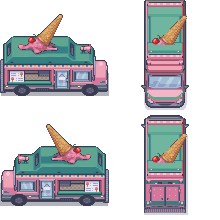
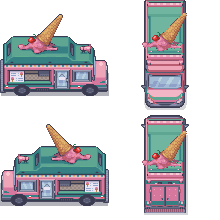
SCREAM-117: the whole cone and scoop on the truck's roof when it faces up or down; PO's reasons for decisions 020 and 022
Claude-Session: https://claude.ai/code/session_0117hxJ6iHj4m6Kg7agVMVwY

Changed region(s): [[0.6273, 0.5727, 0.8455, 0.7909], [0.6273, 0.0545, 0.8455, 0.2455]]

diff --git a/tools/truck/build_truck.py b/tools/truck/build_truck.py
@@ -64,19 +64,37 @@ def repaint(im, roof_end, red_rows_to_body):
 
 
 def cone(side):
-    """The cone and scoop from the side view's roof (everything above the roof line)."""
-    top = side.crop((0, 0, side.width, 30))
+    """
+    The cone, scoop, cherry and melted splat from the side view's roof (not the roof
+    itself, nor the megaphone). SCREAM-115 (PO testing): the first cut stopped at 30 px,
+    which clipped the scoop, and was wider than the van, so the front and back views cut
+    it off at the sides.
+    """
+    top = side.crop((14, 0, 66, 42))
     px = top.load()
-    keep = Image.new('RGBA', top.size)
-    kp = keep.load()
-    teal = {hx(c) for c in ('367f82', '5ea592', '49928f', '2e7177', '3a3a50', '46465e', '565972', '7d7f99')}
-    for y in range(top.height):
-        for x in range(top.width):
-            p = px[x, y]
-            if p[3] and p[:3] not in teal:
-                kp[x, y] = p
-    bb = keep.getbbox()
-    return keep.crop(bb)
+    roof = {hx(c) for c in ('367f82', '5ea592', '49928f', '2e7177', '3a3a50', '46465e', '565972', '7d7f99')}
+    keep = {(x, y) for y in range(top.height) for x in range(top.width) if px[x, y][3] and px[x, y][:3] not in roof}
+    # Only the biggest connected piece: drops stray roof highlights.
+    best, seen = set(), set()
+    for start in keep:
+        if start in seen:
+            continue
+        piece, todo = set(), [start]
+        while todo:
+            q = todo.pop()
+            if q in seen or q not in keep:
+                continue
+            seen.add(q)
+            piece.add(q)
+            x, y = q
+            todo += [(x + 1, y), (x - 1, y), (x, y + 1), (x, y - 1), (x + 1, y + 1), (x - 1, y - 1), (x + 1, y - 1), (x - 1, y + 1)]
+        if len(piece) > len(best):
+            best = piece
+    out = Image.new('RGBA', top.size)
+    op = out.load()
+    for q in best:
+        op[q] = px[q]
+    return out.crop(out.getbbox())
 
 
 def main(zip_path):
@@ -85,7 +103,8 @@ def main(zip_path):
     down = repaint(load(z, 'Ambulance_Down_1.png'), 60, set())
     up = repaint(load(z, 'Ambulance_Up_1.png'), 63, set(range(70, 82)))
     c = cone(side)
-    for v, roof_mid in ((down, 30), (up, 33)):
+    assert c.width <= down.width, f'cone {c.width} px is wider than the van ({down.width} px)'
+    for v, roof_mid in ((down, 32), (up, 35)):
         v.alpha_composite(c, ((v.width - c.width) // 2, roof_mid - c.height // 2))
     right = side
     left = side.transpose(Image.FLIP_LEFT_RIGHT)

diff --git a/docs/decision-log.md b/docs/decision-log.md
@@ -10,7 +10,7 @@ Newest first. Each entry: what was decided, the options considered, and why.
 
 **Options considered:** for loading, a spinning ice cream cone (the ticket's description) or the truck covering the page (its newer title); the PO picked the truck (November 2).
 
-**Why (product owner's rationale):** the $4 warning: players should organically figure out the price ceiling (doc 08, Q11). The loading screen: _waiting on the PO._
+**Why (product owner's rationale):** the $4 warning: players should organically figure out the price ceiling (doc 08, Q11). The loading screen: the game had no spinners yet, and he likes the truck as a transition design better.
 
 ## 021 — Largest sale: tonight's and an all-time record, tip included, in both modes (2026-11-02)
 
@@ -30,7 +30,7 @@ Newest first. Each entry: what was decided, the options considered, and why.
 
 **Options considered:** full size tilted, full size snapping to four directions, 3/4 size, or today's size; growing the bump box or keeping it (picture overlapping parked cars).
 
-**Why (product owner's rationale):** the PO likes the title screen's truck and wants the driving truck to look as good, in any direction (November 2). Full size and the bigger bump box: _waiting on the PO_ (he picked engineering's recommended options).
+**Why (product owner's rationale):** the PO likes the title screen's truck and wants the driving truck to look as good, in any direction (November 2). Full size: he likes the larger truck, and will play with it to check the size is right. The bigger bump box: so what hits matches what you see.
 
 **Engineering's calls (proposals, not the PO's reasons):**
 - Turning round on a two-lane street still works, now in two or three moves. Every street stays reachable (checked by the extras suite).
